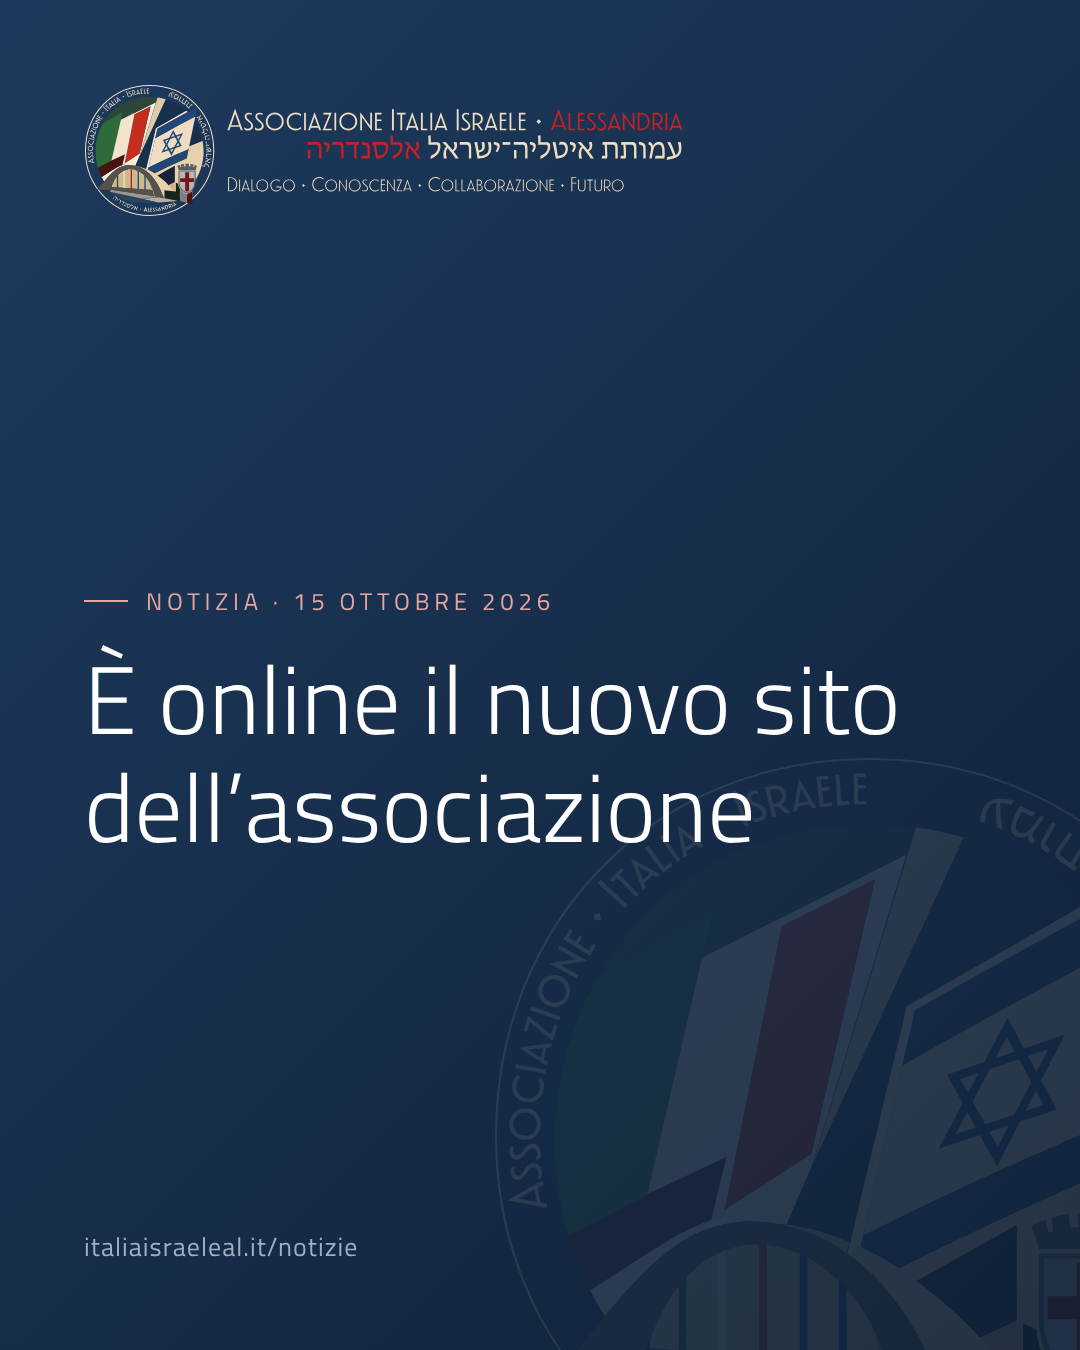
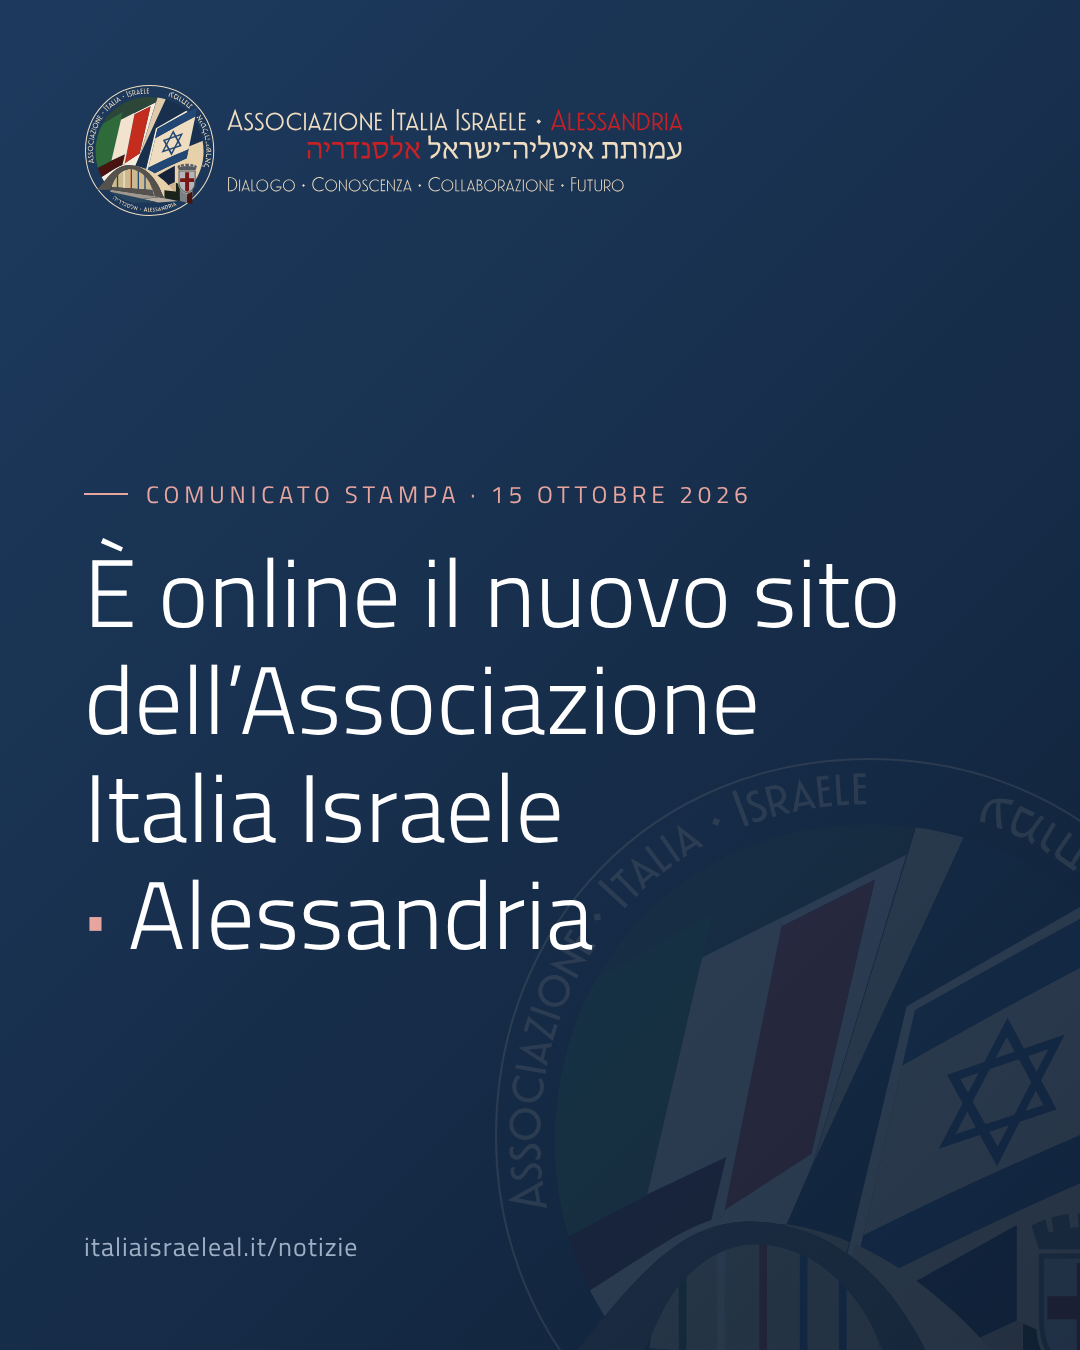
Comunicato stampa sul nuovo sito
Claude-Session: https://claude.ai/code/session_01TWXY9QvE7qM6z4198XWvcP

diff --git a/notizie/online-il-nuovo-sito/index.html b/notizie/online-il-nuovo-sito/index.html
@@ -4,10 +4,10 @@
 <meta charset="utf-8">
 <meta name="viewport" content="width=device-width, initial-scale=1">
 <meta name="robots" content="noindex">
-<title>È online il nuovo sito dell’associazione · Associazione Italia Israele • Alessandria</title>
-<meta name="description" content="Tesseramento 2027, area riservata ai soci, calendario ebraico con gli orari dello Shabbat ad Alessandria e le date che ricordiamo.">
-<meta property="og:title" content="È online il nuovo sito dell’associazione · Associazione Italia Israele • Alessandria">
-<meta property="og:description" content="Tesseramento 2027, area riservata ai soci, calendario ebraico con gli orari dello Shabbat ad Alessandria e le date che ricordiamo.">
+<title>È online il nuovo sito dell’Associazione Italia Israele • Alessandria · Associazione Italia Israele • Alessandria</title>
+<meta name="description" content="Informazione, attività culturali e servizi ai soci. Su italiaisraeleal.it il tesseramento online, la tessera digitale, il calendario ebraico della città e uno spazio dedicato alla memoria del 7 ottobre in quattro lingue.">
+<meta property="og:title" content="È online il nuovo sito dell’Associazione Italia Israele • Alessandria · Associazione Italia Israele • Alessandria">
+<meta property="og:description" content="Informazione, attività culturali e servizi ai soci. Su italiaisraeleal.it il tesseramento online, la tessera digitale, il calendario ebraico della città e uno spazio dedicato alla memoria del 7 ottobre in quattro lingue.">
 <meta property="og:image" content="https://italiaisraeleal.it/notizie/online-il-nuovo-sito/og.png">
 <meta property="og:image:width" content="1200">
 <meta property="og:image:height" content="630">
@@ -53,16 +53,16 @@
 <main>
   <section class="testata">
     <div class="contenitore">
-      <p class="occhiello">Notizia · 15 ottobre 2026</p>
-      <h1 class="titolo-notizia">È online il nuovo sito dell’associazione</h1>
-      <p class="lead">Tesseramento 2027, area riservata ai soci, calendario ebraico con gli orari dello Shabbat ad Alessandria e le date che ricordiamo.</p>
+      <p class="occhiello">Comunicato stampa · 15 ottobre 2026</p>
+      <h1 class="titolo-notizia">È online il nuovo sito dell’Associazione Italia Israele <span class="punto">•</span>&nbsp;Alessandria</h1>
+      <p class="lead">Informazione, attività culturali e servizi ai soci. Su italiaisraeleal.it il tesseramento online, la tessera digitale, il calendario ebraico della città e uno spazio dedicato alla memoria del 7 ottobre in quattro lingue.</p>
     </div>
   </section>
 
   <section class="sezione">
     <div class="contenitore notizie-impaginato">
       <article class="prosa notizia-testo">
-        <p>Da oggi l’Associazione Italia Israele • Alessandria ha un sito tutto nuovo, all’indirizzo italiaisraeleal.it.</p><p>Qui si apre il tesseramento 2027, e la domanda di adesione e il rinnovo si fanno online in pochi minuti. I soci hanno un’area riservata con la tessera digitale, le ricevute delle quote e i documenti dell’associazione.</p><p>Il calendario ebraico indica la data di oggi, gli orari dello Shabbat ad Alessandria e le feste dei prossimi mesi. Nella pagina delle ricorrenze raccogliamo le date che ricordiamo durante l’anno, dalla memoria della Shoah alla storia d’Israele.</p><p>In questa sezione pubblicheremo i nostri comunicati, le prese di posizione e le notizie sulle iniziative.</p>
+        <p>L’Associazione Italia Israele • Alessandria presenta il proprio nuovo sito, italiaisraeleal.it, uno spazio che riunisce informazione, memoria, iniziative culturali e strumenti per partecipare alla vita associativa. Un progetto pensato per i soci, per la stampa e per chiunque desideri conoscere meglio Israele, la cultura ebraica e l’impegno dell’associazione sul territorio.</p><p>Il sito rende più semplice seguire le attività, aderire, consultare documenti e trovare materiali da leggere, condividere e utilizzare anche in ambito educativo e culturale. La dimensione locale attraversa l’intero progetto, dal racconto delle iniziative agli orari dello Shabbat calcolati per Alessandria.</p><h2>Notizie, iniziative e strumenti per la stampa</h2><p>La sezione Notizie raccoglie comunicati stampa, prese di posizione e aggiornamenti sulle attività. Ogni contenuto dispone di una pagina autonoma, con un indirizzo permanente che consente di condividerlo, citarlo e ritrovarlo nel tempo, costruendo un archivio pubblico dell’impegno dell’associazione.</p><p>Gli incontri, le presentazioni e le altre iniziative trovano spazio insieme alle fotografie e ai resoconti, così che il sito conservi anche quanto nasce dagli appuntamenti e dalle occasioni di confronto.</p><p>Per i giornalisti sono disponibili il contatto dell’ufficio stampa, il logo in alta risoluzione e una scheda di presentazione dell’associazione. Il feed RSS permette inoltre di ricevere gli aggiornamenti attraverso il proprio lettore di notizie.</p><h2>Tesseramento online e area personale dei soci</h2><p>Il tesseramento 2027 può essere effettuato interamente online, sia per le nuove adesioni sia per i rinnovi. Le quote richiamano il numero diciotto, valore numerico della parola ebraica חי, chai, “vita”. Le prime cento tessere trovano posto nell’albo dei soci del rilancio, a testimonianza di chi ha scelto di accompagnare questa fase di crescita.</p><p>Ogni socio dispone di un’area riservata, accessibile con il proprio indirizzo email e un codice ricevuto a ogni accesso, senza password da creare o ricordare. Al suo interno sono disponibili la tessera digitale con codice QR da mostrare agli incontri, le ricevute delle quote da scaricare e i documenti dell’associazione.</p><p>L’area personale offre così un punto di riferimento unico per consultare i propri materiali e averli a disposizione anche dal telefono.</p><h2>Il calendario ebraico di Alessandria e le ricorrenze da conoscere</h2><p>Una sezione specifica è dedicata al calendario ebraico, con la data ebraica del giorno, la parashà della settimana, gli orari dello Shabbat calcolati per Alessandria e le feste e i digiuni dei successivi dodici mesi, secondo l’uso delle comunità italiane.</p><p>È un servizio utile a chi osserva queste ricorrenze e a chi desidera avvicinarsi alla cultura ebraica, comprenderne il ritmo e conoscere le occasioni che scandiscono la vita delle comunità.</p><p>La pagina “Le date che ricordiamo” raccoglie invece le ricorrenze legate alla memoria, alla storia e alla vita d’Israele e del popolo ebraico, dal Giorno della Memoria a Yom HaAtzmaut. Per quelle che seguono il calendario ebraico viene indicata la prossima data nel calendario civile, facilitandone la consultazione e la programmazione delle iniziative.</p><h2>La memoria del 7 ottobre, in quattro lingue</h2><p>Il sito ospita uno spazio dedicato agli attacchi terroristici del 7 ottobre 2023, consultabile in quattro lingue. Voci, documenti e una mappa delle persone e dei luoghi permettono di approfondire gli eventi attraverso percorsi di lettura che collegano le storie individuali al contesto in cui si sono svolte.</p><p>La disponibilità in più lingue amplia l’accesso ai materiali e ne favorisce la condivisione anche al di fuori del pubblico italiano, offrendo un riferimento per il lavoro di memoria e divulgazione.</p><h2>Partecipare e sostenere le attività</h2><p>Il sito raccoglie anche le indicazioni per sostenere l’associazione attraverso donazioni e la destinazione del 5×1000, contribuendo alla realizzazione di incontri, progetti culturali e iniziative sul territorio.</p><p>Con questo progetto l’Associazione Italia Israele • Alessandria rende più accessibili le proprie attività e mette a disposizione strumenti concreti per informarsi, partecipare e mantenere un rapporto continuativo con la vita associativa.</p><p>L’invito è a visitare italiaisraeleal.it, scoprire le sezioni, iscriversi o rinnovare la tessera e contattare l’associazione per proposte e collaborazioni.</p>
         <p class="torna"><a href="/notizie/">← Tutte le notizie</a></p>
         
       </article>

diff --git a/notizie/online-il-nuovo-sito/social/index.html b/notizie/online-il-nuovo-sito/social/index.html
@@ -5,10 +5,10 @@
 <meta charset="utf-8">
 <meta name="viewport" content="width=device-width, initial-scale=1">
 <meta name="robots" content="noindex">
-<title>Pubblica sui social · È online il nuovo sito dell’associazione · Associazione Italia Israele • Alessandria</title>
-<meta name="description" content="Tesseramento 2027, area riservata ai soci, calendario ebraico con gli orari dello Shabbat ad Alessandria e le date che ricordiamo.">
-<meta property="og:title" content="Pubblica sui social · È online il nuovo sito dell’associazione · Associazione Italia Israele • Alessandria">
-<meta property="og:description" content="Tesseramento 2027, area riservata ai soci, calendario ebraico con gli orari dello Shabbat ad Alessandria e le date che ricordiamo.">
+<title>Pubblica sui social · È online il nuovo sito dell’Associazione Italia Israele • Alessandria · Associazione Italia Israele • Alessandria</title>
+<meta name="description" content="Informazione, attività culturali e servizi ai soci. Su italiaisraeleal.it il tesseramento online, la tessera digitale, il calendario ebraico della città e uno spazio dedicato alla memoria del 7 ottobre in quattro lingue.">
+<meta property="og:title" content="Pubblica sui social · È online il nuovo sito dell’Associazione Italia Israele • Alessandria · Associazione Italia Israele • Alessandria">
+<meta property="og:description" content="Informazione, attività culturali e servizi ai soci. Su italiaisraeleal.it il tesseramento online, la tessera digitale, il calendario ebraico della città e uno spazio dedicato alla memoria del 7 ottobre in quattro lingue.">
 <meta property="og:image" content="https://italiaisraeleal.it/img/condivisione.png">
 <meta property="og:type" content="website">
 <meta name="theme-color" content="#fbf8f2">
@@ -51,7 +51,7 @@
   <section class="testata">
     <div class="contenitore">
       <p class="occhiello">Pubblica sui social</p>
-      <h1 class="titolo-notizia">È online il nuovo sito dell’associazione</h1>
+      <h1 class="titolo-notizia">È online il nuovo sito dell’Associazione Italia Israele • Alessandria</h1>
       <p class="lead">Pagina di servizio, non collegata al menu. Da qui si prendono immagine e testi per Facebook e Instagram.</p>
     </div>
   </section>
@@ -61,17 +61,17 @@
       <div>
         <h3>Facebook</h3>
         <p class="piccolo">Due modi. Incolla il testo con il link e l’anteprima compare da sola, oppure carica l’immagine per Facebook e incolla il testo.</p>
-        <textarea class="testo-social" readonly rows="7">È online il nuovo sito dell’associazione
+        <textarea class="testo-social" readonly rows="7">È online il nuovo sito dell’Associazione Italia Israele • Alessandria
 
-Tesseramento 2027, area riservata ai soci, calendario ebraico con gli orari dello Shabbat ad Alessandria e le date che ricordiamo.
+Informazione, attività culturali e servizi ai soci. Su italiaisraeleal.it il tesseramento online, la tessera digitale, il calendario ebraico della città e uno spazio dedicato alla memoria del 7 ottobre in quattro lingue.
 
 https://italiaisraeleal.it/notizie/online-il-nuovo-sito/</textarea>
         <button class="bottone chiaro" type="button" data-copia>Copia il testo</button>
         <h3 style="margin-top:36px">Instagram</h3>
         <p class="piccolo">Carica l’immagine e incolla il testo. Su Instagram i link non sono cliccabili.</p>
-        <textarea class="testo-social" readonly rows="9">È online il nuovo sito dell’associazione
+        <textarea class="testo-social" readonly rows="9">È online il nuovo sito dell’Associazione Italia Israele • Alessandria
 
-Tesseramento 2027, area riservata ai soci, calendario ebraico con gli orari dello Shabbat ad Alessandria e le date che ricordiamo.
+Informazione, attività culturali e servizi ai soci. Su italiaisraeleal.it il tesseramento online, la tessera digitale, il calendario ebraico della città e uno spazio dedicato alla memoria del 7 ottobre in quattro lingue.
 
 Il testo completo è sul nostro sito, link in bio.
 

diff --git a/anteprima/index.html b/anteprima/index.html
@@ -71,7 +71,7 @@
         <a class="collegamento" href="/notizie/">Tutte le notizie e i comunicati <svg class="icona" viewBox="0 0 24 24"><path d="M5 12h14M13 6l6 6-6 6"/></svg></a>
       </div>
       <div class="notizie-griglia">
-        <a class="notizia-scheda compare" href="/notizie/online-il-nuovo-sito/"><p class="notizia-meta"><span>Notizia</span><time datetime="2026-10-15">15 ottobre 2026</time></p><h3>È online il nuovo sito dell’associazione</h3><p>Tesseramento 2027, area riservata ai soci, calendario ebraico con gli orari dello Shabbat ad Alessandria e le date che ricordiamo.</p><span class="vai">Leggi <svg class="icona" viewBox="0 0 24 24"><path d="M5 12h14M13 6l6 6-6 6"/></svg></span></a>
+        <a class="notizia-scheda compare" href="/notizie/online-il-nuovo-sito/"><p class="notizia-meta"><span>Comunicato stampa</span><time datetime="2026-10-15">15 ottobre 2026</time></p><h3>È online il nuovo sito dell’Associazione Italia Israele • Alessandria</h3><p>Informazione, attività culturali e servizi ai soci. Su italiaisraeleal.it il tesseramento online, la tessera digitale, il calendario ebraico della città e uno spazio dedicato alla memoria del 7 ottobre in quattro lingue.</p><span class="vai">Leggi <svg class="icona" viewBox="0 0 24 24"><path d="M5 12h14M13 6l6 6-6 6"/></svg></span></a>
       </div>
     </div>
   </section>

diff --git a/notizie/index.html b/notizie/index.html
@@ -58,7 +58,7 @@
   <section class="sezione">
     <div class="contenitore notizie-impaginato">
       <div class="notizie-elenco">
-        <a class="notizia-voce compare" href="/notizie/online-il-nuovo-sito/"><p class="notizia-meta"><span>Notizia</span><time datetime="2026-10-15">15 ottobre 2026</time></p><h3>È online il nuovo sito dell’associazione</h3><p>Tesseramento 2027, area riservata ai soci, calendario ebraico con gli orari dello Shabbat ad Alessandria e le date che ricordiamo.</p><span class="vai">Leggi <svg class="icona" viewBox="0 0 24 24"><path d="M5 12h14M13 6l6 6-6 6"/></svg></span></a>
+        <a class="notizia-voce compare" href="/notizie/online-il-nuovo-sito/"><p class="notizia-meta"><span>Comunicato stampa</span><time datetime="2026-10-15">15 ottobre 2026</time></p><h3>È online il nuovo sito dell’Associazione Italia Israele • Alessandria</h3><p>Informazione, attività culturali e servizi ai soci. Su italiaisraeleal.it il tesseramento online, la tessera digitale, il calendario ebraico della città e uno spazio dedicato alla memoria del 7 ottobre in quattro lingue.</p><span class="vai">Leggi <svg class="icona" viewBox="0 0 24 24"><path d="M5 12h14M13 6l6 6-6 6"/></svg></span></a>
       </div>
       <aside class="notizie-laterale">
         <div class="riquadro-laterale compare">

diff --git a/stile.css b/stile.css
@@ -516,3 +516,5 @@ form.scrivici { background: #fff; border: 1px solid var(--linea); border-radius:
   .attesa-azioni { flex-wrap: nowrap; gap: 8px; }
   .attesa-azioni .bottone { padding: 10px 12px; font-size: 14px; letter-spacing: .02em; border-radius: 8px; white-space: nowrap; }
 }
+.notizia-testo h2 { font-size: clamp(24px, 3vw, 30px); margin: 40px 0 14px; }
+.titolo-notizia .punto { font-size: .55em; vertical-align: .25em; color: var(--rosso); }
